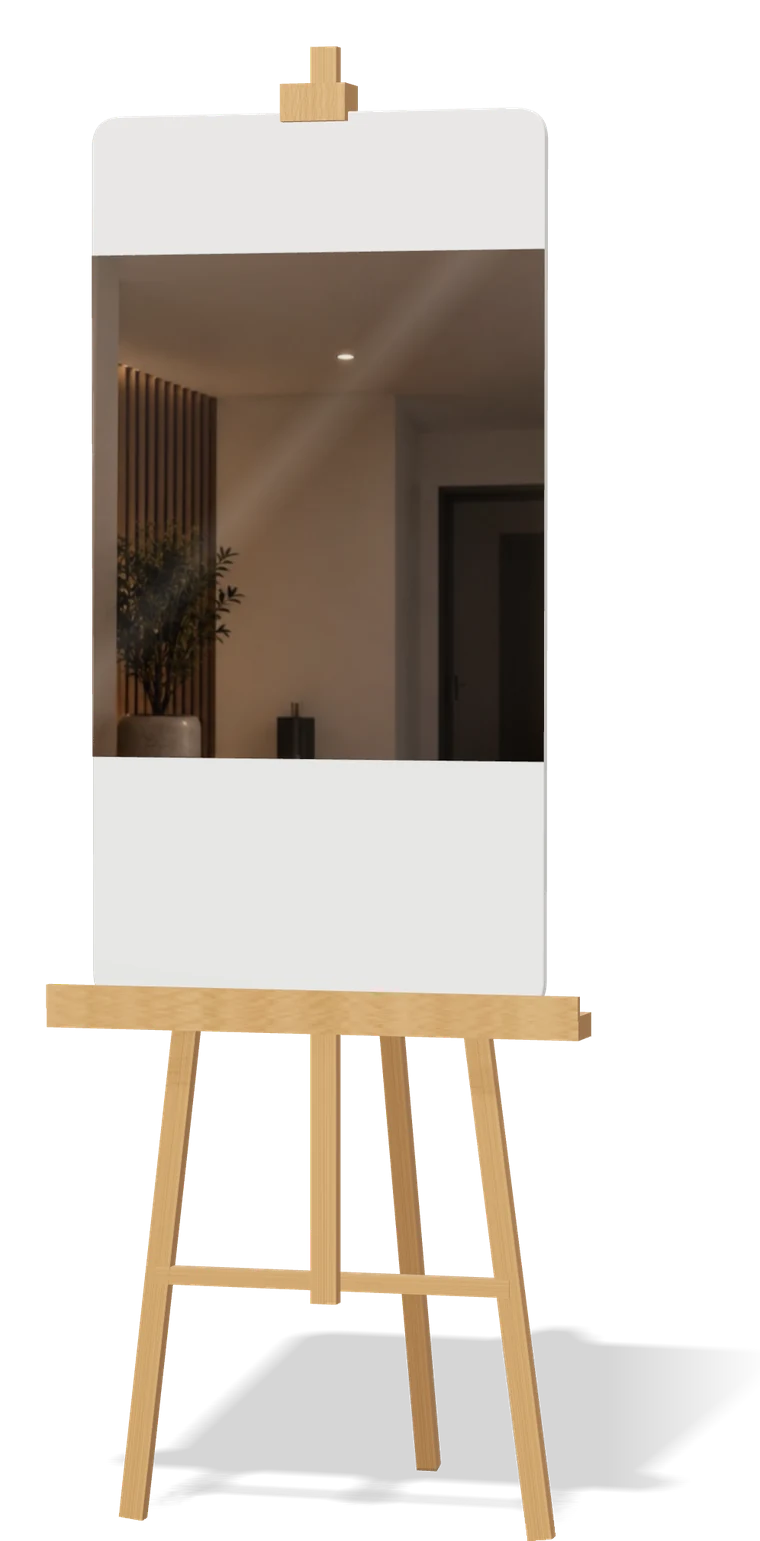
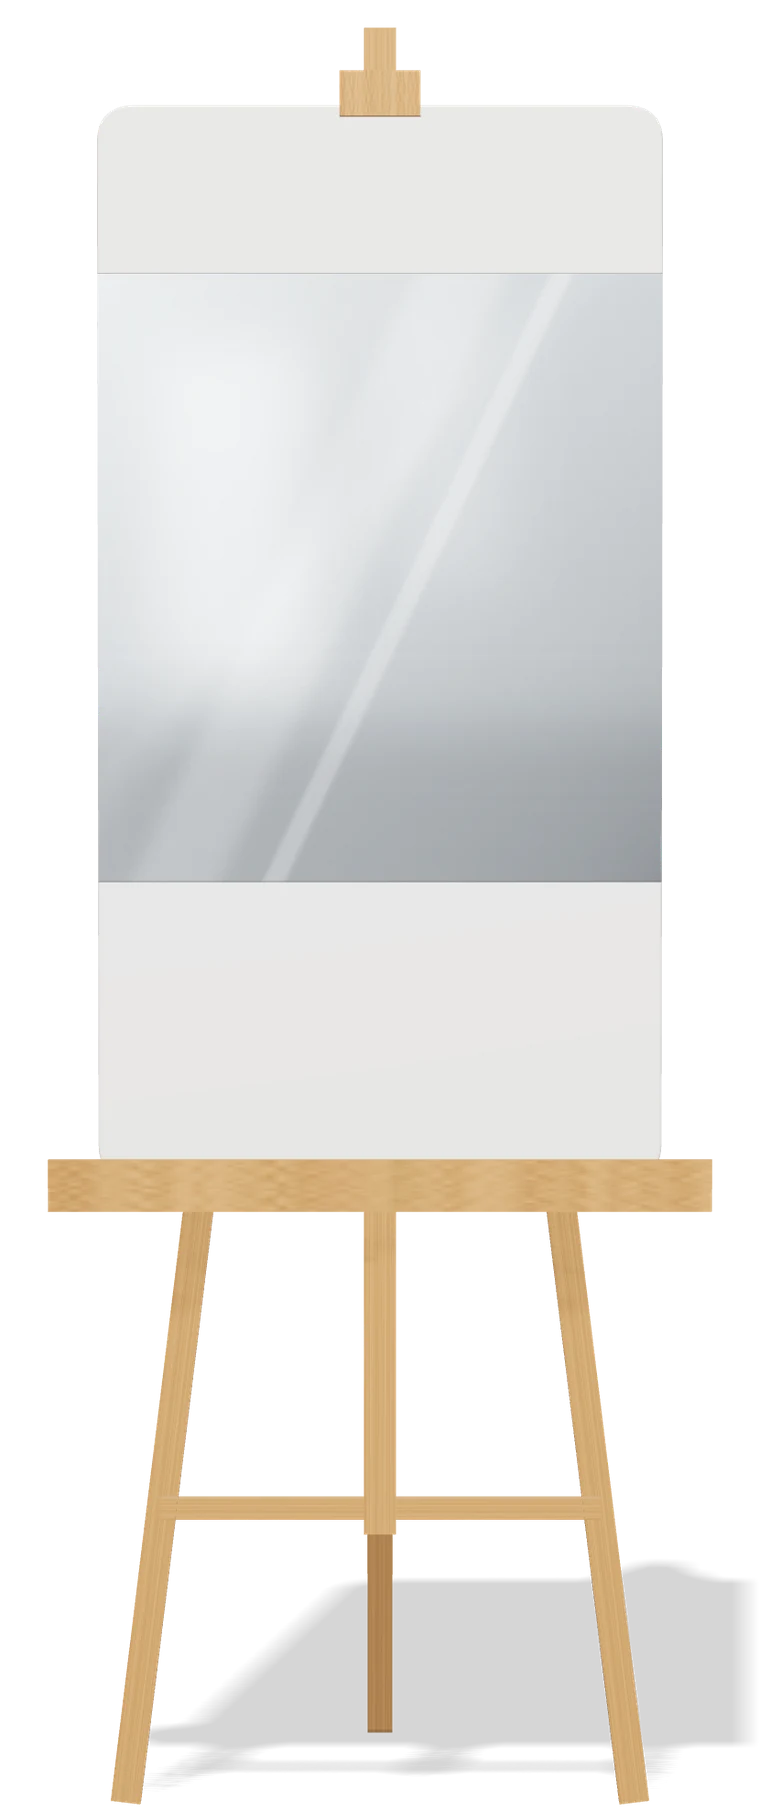
Miroir 3D 100 % de face avec reflet gris neutre
Claude-Session: https://claude.ai/code/session_012ngxBPVu4EnHkjxWwvMvpX

diff --git a/index.html b/index.html
@@ -110,7 +110,7 @@ header.scrolled{border-bottom-color:var(--line)}
 /* the 3D mirror: studio plate + live print + LED halo */
 .studio{position:relative;display:grid;justify-items:center}
 .studio::before{content:"";position:absolute;inset:6% -8% 4% -8%;background:radial-gradient(closest-side,#FFFFFF 0%,rgba(255,255,255,0) 72%);z-index:-1}
-.m3{position:relative;width:min(390px,100%);aspect-ratio:760/1541}
+.m3{position:relative;width:min(340px,100%);aspect-ratio:760/1820}
 .m3>*{position:absolute;inset:0;width:100%;height:100%}
 .m3 .halo{opacity:0;transition:opacity 1.2s var(--ease);overflow:visible}
 .m3.lit .halo{opacity:1}
@@ -122,7 +122,7 @@ header.scrolled{border-bottom-color:var(--line)}
   .hero-txt{grid-area:txt}.hero-try{grid-area:try}.hero-trust{grid-area:trust}
   .hero-txt{text-align:center;display:grid;justify-items:center}
   .lead{margin-inline:auto}
-  .hero-mir .m3{width:min(230px,56vw);margin-top:12px;transform:translateX(8%)}
+  .hero-mir .m3{width:min(210px,52vw);margin-top:12px}
   .studio .cap{display:none}
   .try{margin:6px auto 0}
   .hero-trust{justify-content:center;margin-top:24px}
@@ -224,7 +224,7 @@ input:focus,textarea:focus{outline:none;border-color:var(--or);box-shadow:0 0 0 
 .msg.ok{background:#E7F3EC;color:#14532D}
 .msg.ko{background:#FBEAEA;color:#7F1D1D}
 .stage{position:sticky;top:92px;display:grid;justify-items:center;gap:16px;padding:clamp(20px,3vw,32px) clamp(16px,2vw,24px);border-radius:var(--r-lg);background:radial-gradient(120% 80% at 50% 35%,#FFFFFF 0%,var(--bg-2) 100%);border:1px solid var(--line)}
-.stage .m3{width:min(360px,100%)}
+.stage .m3{width:min(320px,100%)}
 .stage .cap{font-size:13px;color:var(--muted);text-align:center;margin-top:-4%}
 .stage .quick{display:flex;gap:8px;flex-wrap:wrap;justify-content:center}
 .chip{display:inline-flex;align-items:center;gap:8px;min-height:40px;padding:6px 14px;border-radius:999px;border:1px solid var(--line);background:var(--card);font:inherit;font-size:14px;font-weight:500;cursor:pointer;transition:border-color .2s}
@@ -615,7 +615,7 @@ Adresse.
   // 63 cm = 2419 px, so 120 cm = 4608 px; the mirror zone fills the gap between the two panels.
   var W=2419, H=4608, TOP=719, BOT=1286, BY=H-BOT;
   // 3D studio plates (rendered in three.js) and where the printed face lands on them, in plate pixels.
-  var PLATE={w:760,h:1541,quad:[[91.47, 117.01], [545.04, 106.65], [543.61, 1014.1], [92.87, 1002.79]],src:{Blanche:"img/miroir-3d-blanc.webp",Noire:"img/miroir-3d-noir.webp"}};
+  var PLATE={w:760,h:1820,quad:[[96.85,104.93],[663.15,104.93],[661.38,1180.8],[98.62,1180.8]],src:{Blanche:"img/miroir-3d-blanc.webp",Noire:"img/miroir-3d-noir.webp"}};
 
   function esc(s){return String(s).replace(/&/g,"&amp;").replace(/</g,"&lt;").replace(/>/g,"&gt;").replace(/"/g,"&quot;")}
   function val(id){return $(id).value}
